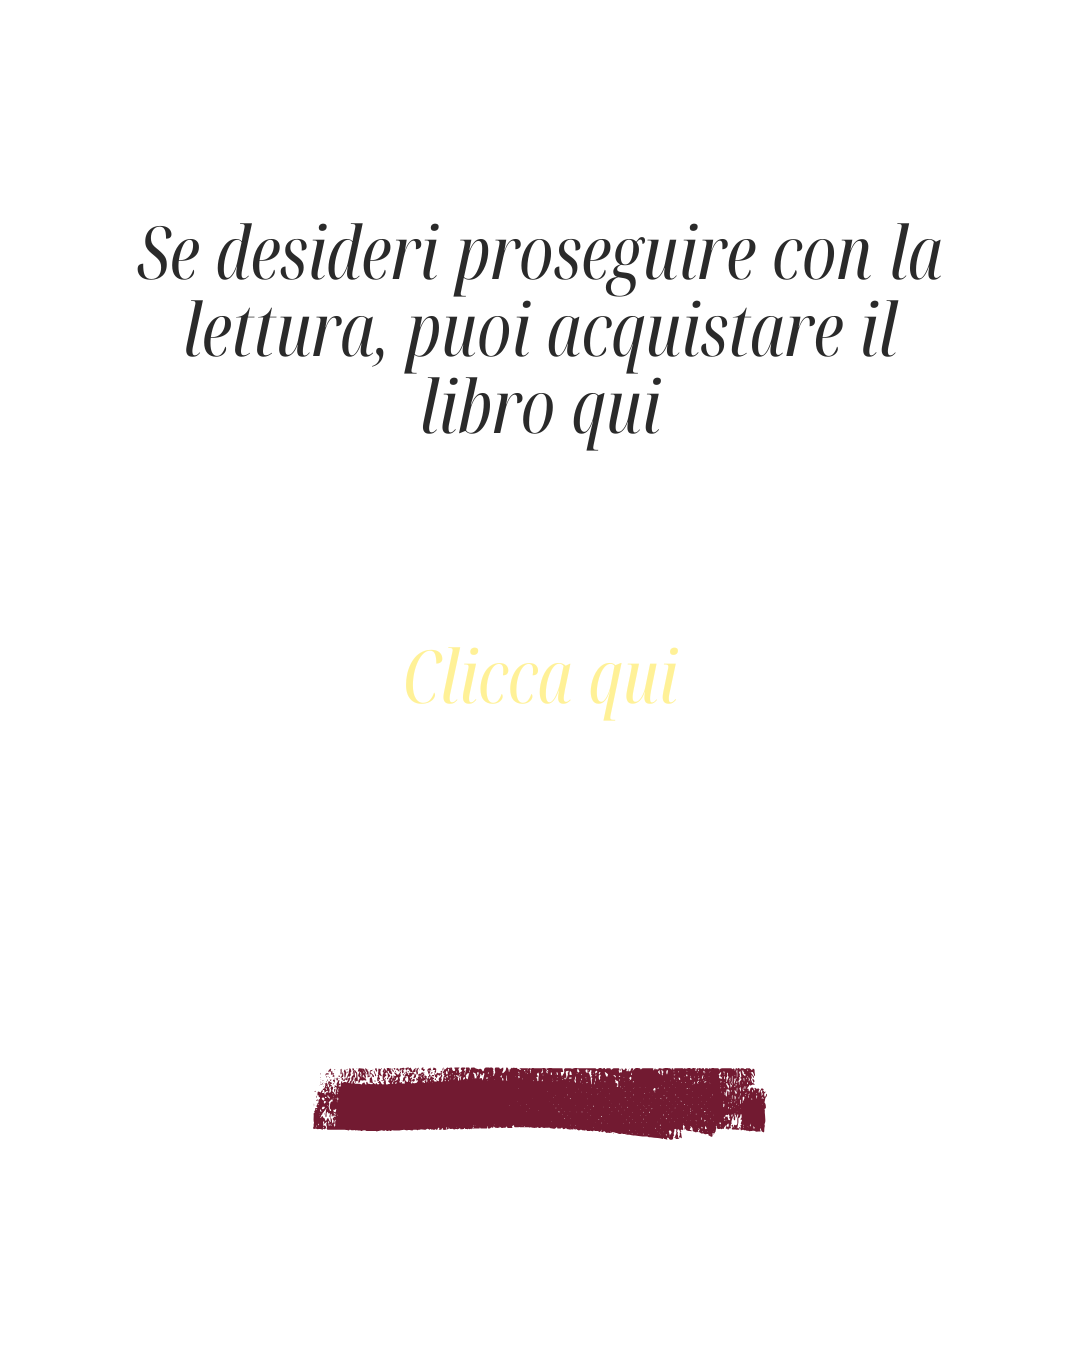
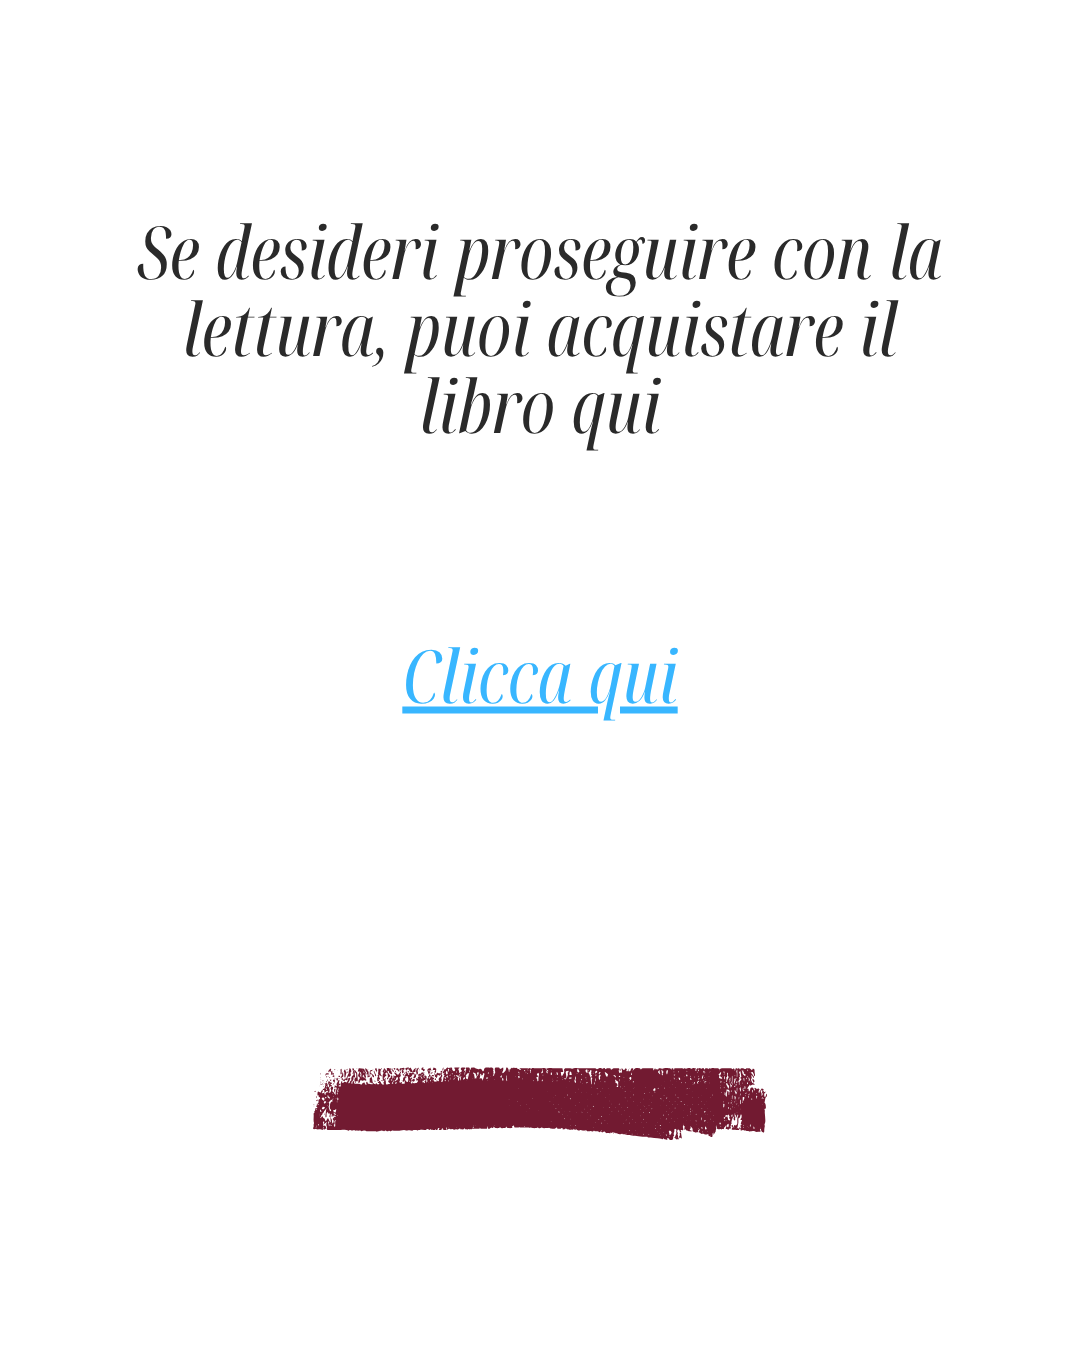
fix: Accorciato Flipbook e cambiato immagini

Changed region(s): [[0.3667, 0.4667, 0.6417, 0.5289]]

diff --git a/index.html b/index.html
@@ -178,7 +178,12 @@
             <div class="page">
                 <img src="img/5.png" alt="Pagina 6">
             </div>
-            
+
+            <div class="page">
+                <img src="img/ImmagineLink.png" alt="Acquista il libro Curare, cura su IBS">
+                <a class="link-acquisto" href="https://www.ibs.it/curare-cura-percorsi-di-ricerca-libro-vari/e/9788885595613" target="_blank" rel="noopener" aria-label="Acquista il libro su IBS"></a>
+            </div>
+            <!--
             <div class="page">
                 <img src="img/6.png" alt="Pagina 6">
             </div>
@@ -214,13 +219,14 @@
             <div class="page">
                 <img src="img/14.png" alt="Pagina 6">
             </div>
+
+            
             <div class="page">
                 <img src="img/15.png" alt="Pagina 6">
             </div>
-            <div class="page">
-                <img src="img/ImmagineLink.png" alt="Acquista il libro Curare, cura su IBS">
-                <a class="link-acquisto" href="https://www.ibs.it/curare-cura-percorsi-di-ricerca-libro-vari/e/9788885595613" target="_blank" rel="noopener" aria-label="Acquista il libro su IBS"></a>
-            </div>
+            
+            -->
+
             <!-- Ho aggiunto io style, Maria fa attenzione se leggi questo. Se crei uno tag con style cancella questo -->
             <div class="page">
                 <img src="img/Retro.png" alt="Pagina 6" style="width: 100%; height: 100%; object-fit: contain;">
